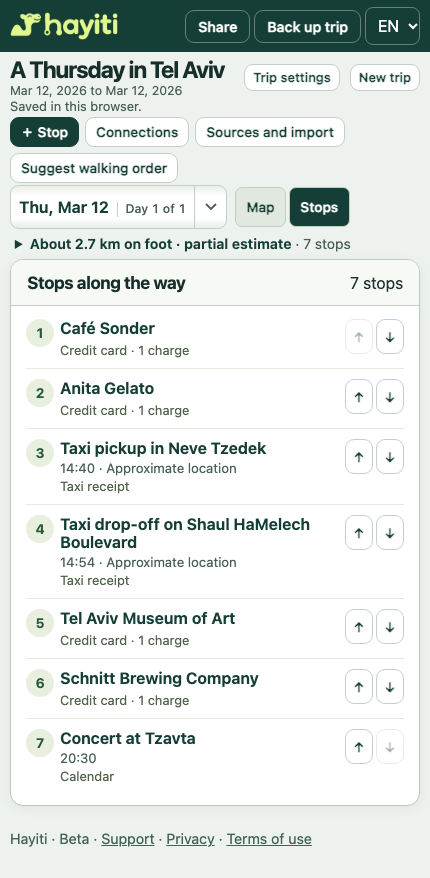
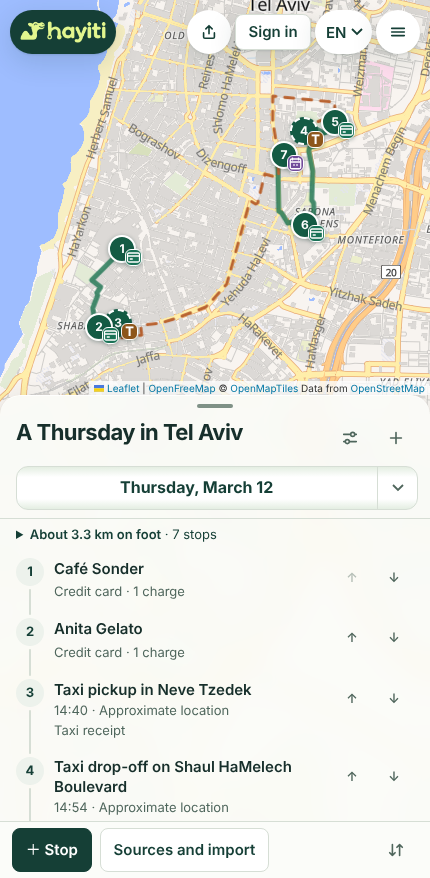
Set empty days back on the reel
Days with nothing recorded turn past in a lighter face, so the days that hold
stops, entries, Google Pins or a note stand out. The README's two screenshots
are retaken on the new layout, on the Tel Aviv sample.

Claude-Session: https://claude.ai/code/session_01976ohoBfQoQYohekBfrpJr

diff --git a/test/browser/panel.test.ts b/test/browser/panel.test.ts
@@ -166,6 +166,9 @@ await test('a day with only a Google Pin or a note says so in the list of dates 
     assert.match(note, / · Note$/);
     assert.doesNotMatch(note, /stop/);
     assert.doesNotMatch(empty, /·/);
+    // On the reel, the three days that hold something stand out from the empty one.
+    assert.deepEqual(await page.locator('#dayReel > div').evaluateAll(faces => faces.map(face => (face as HTMLElement).dataset.recorded !== undefined)),
+      [true, true, true, false]);
     // The reel reads out the same words for the day it shows.
     await page.locator('#tripDate').selectOption('2026-06-15');
     assert.match(await page.locator('#dayReel').getAttribute('aria-valuetext') ?? '', /1 Google Pin, Day 2 of 4$/);

diff --git a/public/journal.css b/public/journal.css
@@ -314,6 +314,8 @@ h1 { padding-block: .2rem; font-size: var(--title); line-height: 1.2; letter-spa
 /* Each face leans back as it rolls out of the opening. */
 #dayReel span { padding-inline: .5rem; line-height: 1.2; transform: perspective(8rem) rotateX(var(--tilt, 0deg)) }
 #dayReel b { font-weight: inherit }
+/* A day with nothing recorded is set back, so the days that hold something stand out as the reel turns. */
+#dayReel > div:not([data-recorded]) { color: var(--muted); font-weight: 500 }
 #dayReel .date-short { display: none }
 #dayReel:focus-visible { outline: 3px solid var(--focus); outline-offset: -3px }
 .date-menu { width: 2.5rem; border-inline-start: 1px solid var(--line); border-radius: 0 }

diff --git a/src/web/date-reel.ts b/src/web/date-reel.ts
@@ -85,6 +85,8 @@ export function createDateReel(reel: HTMLElement, menu: HTMLSelectElement, progr
       const row = document.createElement('div'),
         face = document.createElement('span');
       row.setAttribute('aria-hidden', 'true');
+      // A day with something recorded stands out as the reel turns past it.
+      if (notes[index] || extras[index]) row.dataset.recorded = '';
       if (language === 'en') {
         // A narrow opening shows the date in its short form.
         const full = document.createElement('b'),
